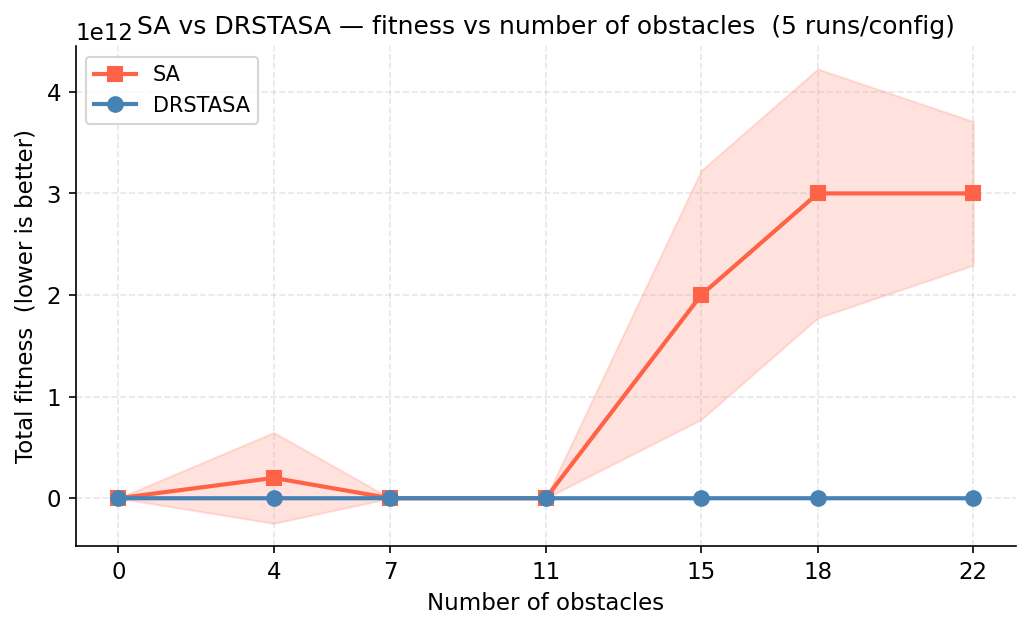
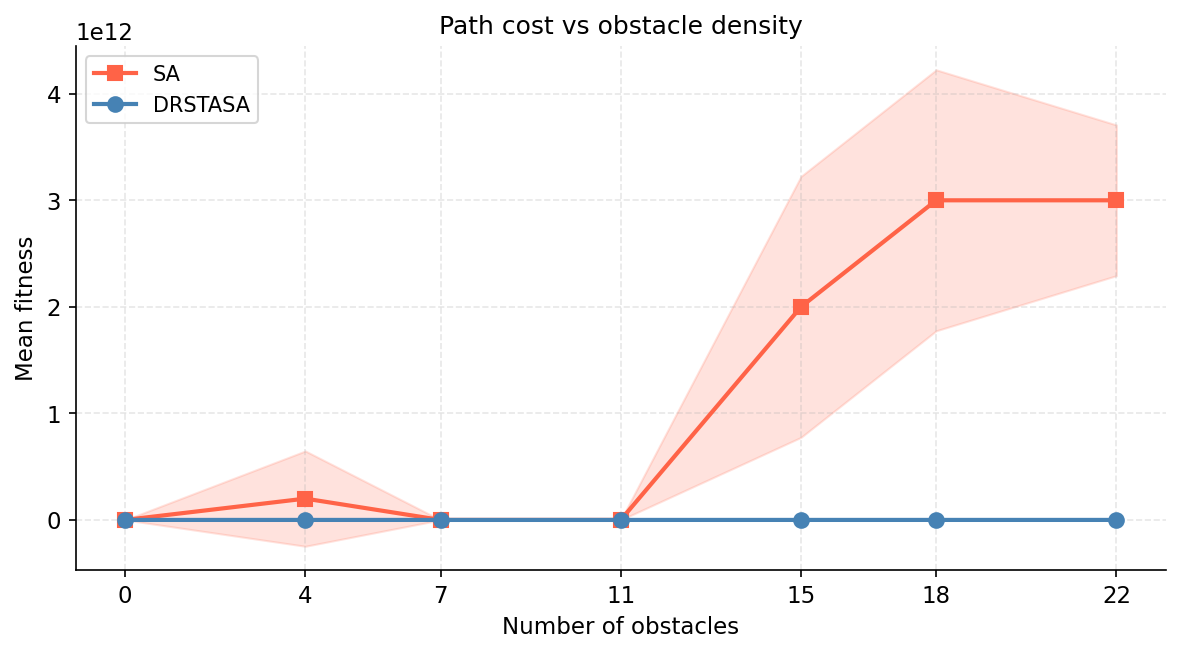
last updates

diff --git a/scripts/plot_results.py b/scripts/plot_results.py
@@ -1,3 +1,19 @@
+"""
+plot_results.py - benchmark plots for the parallel DRSTASA UAV path planner.
+
+Produces (into ../output/):
+  1. plot_strong_scaling.png     speedup + parallel efficiency vs #threads, with ideal lines
+  2. plot_obstacles.png          mean SA vs DRSTASA fitness vs obstacle count
+  3. plot_cluster_granularity.png runtime vs K  (sensitivity study -- NOT a scaling curve)
+  4. plot_weak_scaling.png       OPTIONAL: appears only if bench_weak.csv exists
+
+Expected CSVs in ../output/:
+  bench_parallel.csv    : threads, run, wall_time
+  bench_obstacles.csv   : n_obstacles, run, sa_fit, drstasa_fit
+  bench_scaling.csv     : k, run, wall_time
+  bench_weak.csv  (opt) : threads, run, wall_time      # problem size scaled WITH the thread count
+"""
+
 import os
 import numpy as np
 import pandas as pd
@@ -5,6 +21,11 @@ import matplotlib.pyplot as plt
 
 SCRIPT_DIR = os.path.dirname(os.path.abspath(__file__))
 OUT_DIR    = os.path.join(SCRIPT_DIR, '..', 'output')
+
+# A run whose returned cost exceeds this is treated as INFEASIBLE.
+# The planner returns a 1e12 sentinel on constraint violation, while feasible
+# mission costs are ~1e7, so any threshold in between cleanly separates the two.
+FEASIBLE_THRESHOLD = 1e11
 
 plt.rcParams.update({
     'font.size': 11,
@@ -15,71 +36,183 @@ plt.rcParams.update({
     'axes.spines.right': False,
 })
 
-# Plot 1: Execution time vs number of threads
-df_par = pd.read_csv(os.path.join(OUT_DIR, 'bench_parallel.csv'))
-g      = df_par.groupby('threads')['wall_time']
-mean_t = g.mean()
-std_t  = g.std()
-threads = mean_t.index.to_numpy()
-n_runs  = df_par['run'].nunique()
 
-fig, ax = plt.subplots(figsize=(7, 4.5))
+# ----------------------------------------------------------------------------- helpers
+def _read(name):
+    path = os.path.join(OUT_DIR, name)
+    return pd.read_csv(path) if os.path.exists(path) else None
 
-t1 = mean_t.iloc[0]
 
-ax.plot(threads, mean_t.values, marker='o', markersize=7, linewidth=2,
-        color='steelblue')
+def _save(fig, name):
+    path = os.path.join(OUT_DIR, name)
+    fig.savefig(path, dpi=150, bbox_inches='tight')
+    plt.close(fig)
+    print(f'Saved {path}')
 
-# Annotate actual speedup above each point
-for t, m in zip(threads, mean_t.values):
-    ax.annotate(f'{t1/m:.2f}×',
-                xy=(t, m), xytext=(5, 8), textcoords='offset points',
-                fontsize=9, color='steelblue')
 
-ax.set_xlabel('Number of threads')
-ax.set_ylabel('Execution time (s)')
-ax.set_title(f'Parallel scaling')
-ax.set_xticks(threads)
-ax.grid(True, alpha=0.3, linestyle='--')
-fig.tight_layout()
+# ----------------------------------------------------------- 1. STRONG SCALING
+# Fixed problem, vary threads. Ideal speedup is linear (S = p); ideal efficiency is 100%.
+def plot_strong_scaling():
+    df = _read('bench_parallel.csv')
+    if df is None:
+        print('skip strong scaling: bench_parallel.csv not found')
+        return
 
-out1 = os.path.join(OUT_DIR, 'plot_parallel.png')
-fig.savefig(out1, dpi=150, bbox_inches='tight')
-plt.close(fig)
-print(f'Saved {out1}')
+    m = df.groupby('threads')['wall_time'].mean()
+    p = m.index.to_numpy(dtype=float)
+    t = m.to_numpy()
+    n_runs = df['run'].nunique()
 
-# Plot 2: Fitness vs N obstacles
-df_obs  = pd.read_csv(os.path.join(OUT_DIR, 'bench_obstacles.csv'))
-g_sa    = df_obs.groupby('n_obstacles')['sa_fit']
-g_dr    = df_obs.groupby('n_obstacles')['drstasa_fit']
+    speedup    = t[0] / t
+    efficiency = speedup / p                      # E(p) = S(p) / p
 
-sa_mean = g_sa.mean();  sa_std = g_sa.std()
-dr_mean = g_dr.mean();  dr_std = g_dr.std()
-x       = sa_mean.index.to_numpy()
-n_runs2 = df_obs['run'].nunique()
+    fig, (axS, axE) = plt.subplots(1, 2, figsize=(11, 4.5))
 
-fig, ax1 = plt.subplots(figsize=(7, 4.5))
+    # --- speedup ---
+    axS.plot(p, p, '--', color='gray', linewidth=1.5, label='ideal (linear)')
+    axS.plot(p, speedup, marker='o', markersize=7, linewidth=2,
+             color='steelblue', label='measured')
+    for pi, si in zip(p, speedup):
+        axS.annotate(f'{si:.2f}x', xy=(pi, si), xytext=(6, -12),
+                     textcoords='offset points', fontsize=9, color='steelblue')
+    axS.set_xlabel('Number of threads')
+    axS.set_ylabel('Speedup ')
+    axS.set_title('Strong scaling - speedup')
+    axS.set_xticks(p)
+    axS.legend()
+    axS.grid(True, alpha=0.3, linestyle='--')
 
-ax1.plot(x, sa_mean.values, marker='s', markersize=7, linewidth=2,
-         color='tomato', label='SA')
-ax1.fill_between(x, sa_mean - sa_std, sa_mean + sa_std,
-                 color='tomato', alpha=0.18)
+    # --- efficiency ---
+    axE.axhline(1.0, linestyle='--', color='gray', linewidth=1.5, label='ideal (100%)')
+    axE.plot(p, efficiency, marker='o', markersize=7, linewidth=2,
+             color='indianred', label='measured')
+    for pi, ei in zip(p, efficiency):
+        axE.annotate(f'{ei*100:.0f}%', xy=(pi, ei), xytext=(6, -12),
+                     textcoords='offset points', fontsize=9, color='indianred')
+    axE.set_xlabel('Number of threads')
+    axE.set_ylabel('Parallel efficiency')
+    axE.set_title('Strong scaling - efficiency')
+    axE.set_xticks(p)
+    axE.set_ylim(0, 1.1)
+    axE.legend()
+    axE.grid(True, alpha=0.3, linestyle='--')
 
-ax1.plot(x, dr_mean.values, marker='o', markersize=7, linewidth=2,
-         color='steelblue', label='DRSTASA')
-ax1.fill_between(x, dr_mean - dr_std, dr_mean + dr_std,
-                 color='steelblue', alpha=0.18)
+    fig.suptitle(f'Strong scaling - fixed problem',
+                 fontsize=13)
+    fig.tight_layout()
+    _save(fig, 'plot_strong_scaling.png')
 
-ax1.set_xlabel('Number of obstacles')
-ax1.set_ylabel('Fitness function')
-ax1.set_title(f'SA vs DRSTASA')
-ax1.set_xticks(x)
-ax1.legend()
-ax1.grid(True, alpha=0.3, linestyle='--')
 
-fig.tight_layout()
+# ------------------------------------------------- 2. FITNESS VS OBSTACLES
+def plot_obstacles():
+    df = _read('bench_obstacles.csv')
+    if df is None:
+        print('skip obstacles: bench_obstacles.csv not found')
+        return
 
-out2 = os.path.join(OUT_DIR, 'plot_obstacles.png')
-fig.savefig(out2, dpi=150, bbox_inches='tight')
-plt.close(fig)
-print(f'Saved {out2}')
+    x = np.sort(df['n_obstacles'].unique())
+    n_runs = df['run'].nunique()
+
+    def stats(col):
+        g = df.groupby('n_obstacles')[col]
+        return g.mean().reindex(x).to_numpy(), g.std().reindex(x).to_numpy()
+
+    m_sa, s_sa = stats('sa_fit')
+    m_dr, s_dr = stats('drstasa_fit')
+
+    fig, ax = plt.subplots(figsize=(8, 4.5))
+    ax.plot(x, m_sa, marker='s', markersize=7, linewidth=2, color='tomato', label='SA')
+    ax.fill_between(x, m_sa - s_sa, m_sa + s_sa, color='tomato', alpha=0.18)
+    ax.plot(x, m_dr, marker='o', markersize=7, linewidth=2, color='steelblue', label='DRSTASA')
+    ax.fill_between(x, m_dr - s_dr, m_dr + s_dr, color='steelblue', alpha=0.18)
+    ax.set_xlabel('Number of obstacles')
+    ax.set_ylabel('Mean fitness')
+    ax.set_title(f'Path cost vs obstacle density')
+    ax.set_xticks(x)
+    ax.legend()
+    ax.grid(True, alpha=0.3, linestyle='--')
+    fig.tight_layout()
+    _save(fig, 'plot_obstacles.png')
+
+
+# ---------------------------------------------- 3. CLUSTER GRANULARITY (sensitivity)
+# Varying K on a FIXED dataset changes the WORKLOAD (segments per drone ~ N - K),
+# so this is NOT a scaling curve. No speedup "x" labels: they would be meaningless here.
+def plot_cluster_granularity():
+    df = _read('bench_scaling.csv')
+    if df is None:
+        print('skip cluster granularity: bench_scaling.csv not found')
+        return
+
+    g = df.groupby('k')['wall_time']
+    k = g.mean().index.to_numpy()
+    t = g.mean().to_numpy()
+    s = g.std().to_numpy()
+    n_runs = df['run'].nunique()
+
+    fig, ax = plt.subplots(figsize=(7, 4.5))
+    ax.plot(k, t, marker='o', markersize=7, linewidth=2, color='mediumseagreen')
+    ax.fill_between(k, t - s, t + s, color='mediumseagreen', alpha=0.18)
+    ax.set_xlabel('Number of clusters K  (fixed 21-waypoint dataset)')
+    ax.set_ylabel('Execution time (s)')
+    ax.set_title(f'Runtime vs clustering granularity  (4 threads, {n_runs} runs/config)')
+    ax.set_xticks(k)
+    ax.grid(True, alpha=0.3, linestyle='--')
+    fig.tight_layout()
+    _save(fig, 'plot_cluster_granularity.png')
+
+
+# ----------------------------------------------------------- 4. WEAK SCALING (optional)
+# Problem size grows proportionally to the thread count, so work-per-thread is constant.
+# Ideal runtime is FLAT; ideal weak-scaling efficiency is 100%.
+def plot_weak_scaling():
+    df = _read('bench_weak.csv')
+    if df is None:
+        print('skip weak scaling: bench_weak.csv not found '
+              '(generate it -- e.g. p=1/K=1, p=2/K=2, p=4/K=4 -- to enable this plot)')
+        return
+
+    g = df.groupby('threads')['wall_time']
+    p = g.mean().index.to_numpy(dtype=float)
+    t = g.mean().to_numpy()
+    s = g.std().to_numpy()
+    n_runs = df['run'].nunique()
+
+    weak_eff = t[0] / t                           # ideal = 1 (flat)
+
+    fig, (axT, axE) = plt.subplots(1, 2, figsize=(11, 4.5))
+
+    axT.axhline(t[0], linestyle='--', color='gray', linewidth=1.5, label='ideal (constant)')
+    axT.plot(p, t, marker='o', markersize=7, linewidth=2, color='darkorange', label='measured')
+    axT.fill_between(p, t - s, t + s, color='darkorange', alpha=0.18)
+    axT.set_xlabel('Number of threads  (work per thread fixed)')
+    axT.set_ylabel('Execution time (s)')
+    axT.set_title('Weak scaling - runtime')
+    axT.set_xticks(p)
+    axT.legend()
+    axT.grid(True, alpha=0.3, linestyle='--')
+
+    axE.axhline(1.0, linestyle='--', color='gray', linewidth=1.5, label='ideal (100%)')
+    axE.plot(p, weak_eff, marker='o', markersize=7, linewidth=2,
+             color='darkorange', label='measured')
+    for pi, ei in zip(p, weak_eff):
+        axE.annotate(f'{ei*100:.0f}%', xy=(pi, ei), xytext=(6, -12),
+                     textcoords='offset points', fontsize=9, color='darkorange')
+    axE.set_xlabel('Number of threads  (work per thread fixed)')
+    axE.set_ylabel('Weak-scaling efficiency  T(1) / T(p)')
+    axE.set_title('Weak scaling - efficiency')
+    axE.set_xticks(p)
+    axE.set_ylim(0, 1.1)
+    axE.legend()
+    axE.grid(True, alpha=0.3, linestyle='--')
+
+    fig.suptitle(f'Weak scaling - constant work per thread  ({n_runs} runs/config)', fontsize=13)
+    fig.tight_layout()
+    _save(fig, 'plot_weak_scaling.png')
+
+
+if __name__ == '__main__':
+    plot_strong_scaling()
+    plot_obstacles()
+    plot_cluster_granularity()
+    plot_weak_scaling()

diff --git a/src/testbenchmark.cpp b/src/testbenchmark.cpp
@@ -14,7 +14,7 @@ static constexpr int    NWaypoints   = 4;
 static constexpr int    K_DEFAULT    = 4;
 static constexpr double zMin         = 800.0;
 static constexpr double zMax         = 950.0;
-static constexpr int    N_RUNS       = 5;
+static constexpr int    N_RUNS       = 1;
 
 // This software module serves as the entry-point for the experimental
 // validation of route optimization algorithms for multi-UAV.
@@ -30,7 +30,7 @@ int main()
     const GeoOrigin origin = {63.985, -22.605};
 
     std::cout << "Loading points...\n";
-    PointsList rawPoints = PointsListReader::readCSV("../data/input_iceland.csv");
+    PointsList rawPoints = PointsListReader::readCSV("../data/input_scal.csv");
     if (rawPoints.size() == 0) {
         std::cerr << "ERROR: could not load input_iceland.csv\n";
         return 1;
@@ -80,31 +80,9 @@ int main()
         }
         std::cout << "-> ../output/bench_parallel.csv\n\n";
 
-        // ── Amdahl's law estimate ─────────────────────────────────────────
-        // f = (p/S_p - 1) / (p - 1)  where S_p = T_1 / T_p
-        std::cout << "Amdahl serial-fraction estimate:\n";
-        double T1 = meanWall[0];
-        double fSum = 0.0;
-        int    fCount = 0;
-        for (size_t ti = 1; ti < threadCounts.size(); ++ti) {
-            int    p  = threadCounts[ti];
-            double Sp = T1 / meanWall[ti];
-            double f  = (static_cast<double>(p) / Sp - 1.0) /
-                        (static_cast<double>(p) - 1.0);
-            f = std::max(0.0, std::min(1.0, f));   // clamp to [0,1]
-            std::cout << "  p=" << p
-                      << "  speedup=" << std::fixed << std::setprecision(2) << Sp
-                      << "  f_serial=" << std::fixed << std::setprecision(4) << f
-                      << "\n";
-            fSum += f; ++fCount;
-        }
-        const double fMean = fSum / fCount;
-        const double maxSpeedup = 1.0 / fMean;
-        std::cout << "  mean f_serial = " << std::fixed << std::setprecision(4) << fMean
-                  << "  => theoretical max speedup = "
-                  << std::fixed << std::setprecision(1) << maxSpeedup << "x\n\n";
     }
-
+}; 
+/*
     // ── Experiment 2: fitness vs number of obstacles ──────────────────────────
     {
         const int maxObs  = static_cast<int>(buildDefaultObstacles().size());
@@ -184,3 +162,4 @@ int main()
 
     return 0;
 }
+*/